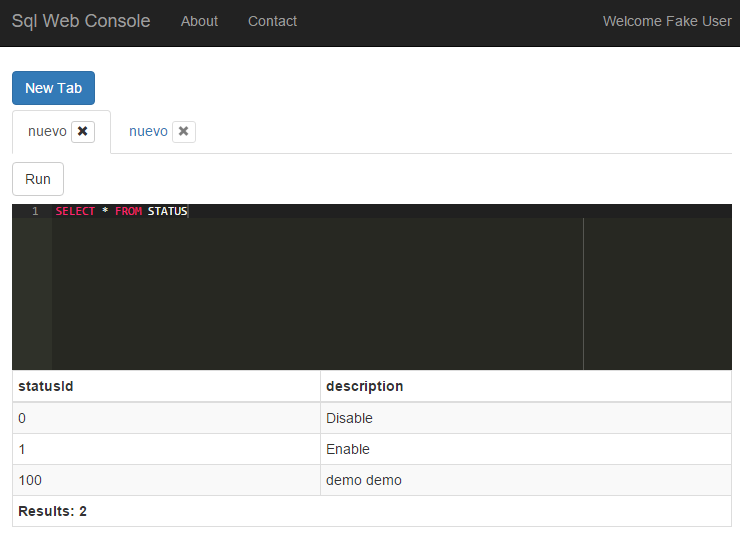
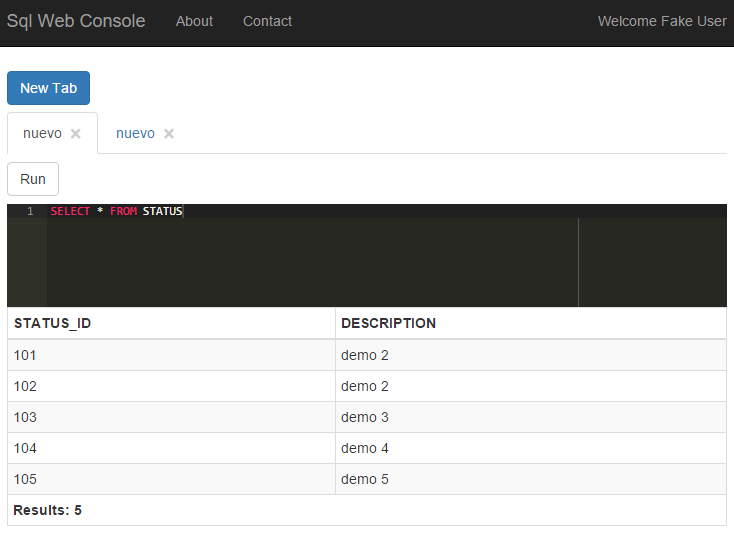
Non Query Commands support

diff --git a/src/SqlWebConsole/views/home.html b/src/SqlWebConsole/views/home.html
@@ -10,7 +10,7 @@
         <uib-tab ng-repeat="tab in vm.tabs" active="tab.active" disable="tab.disabled">
 
             <uib-tab-heading>
-                {{tab.title}} <button type="button" class="btn btn-default btn-xs" ng-click="vm.closeTab(tab)" ng-disabled="!tab.active"><i class="glyphicon glyphicon-remove"></i></button>
+                <span class="conn-tab-title">{{tab.title}}</span> <button type="button" class="close" aria-label="Close" ng-click="vm.closeTab(tab)" ng-disabled="!tab.active"><span aria-hidden="true">&times;</span></button>
             </uib-tab-heading>
 
             <div>
@@ -23,24 +23,31 @@
 
                 <div ui-ace="tab.aceOptions" style="height:500px;" ng-model="tab.sql"></div>
 
-                <div>
+                <div ng-if="vm.errorMessage == null">
                     <table class="table table-bordered table-condensed table-striped table-responsive">
                         <thead>
                             <tr>
-                                <th ng-repeat="col in vm.columns" ng-bind="col"></th>
+                                <th ng-repeat="col in vm.columns" ng-bind="col.name"></th>
                             </tr>
                         </thead>
                         <tfoot>
                             <tr>
-                                <th colspan="100%">Results: {{vm.columns.length}}</th>
+                                <th colspan="100%">
+                                    <span ng-if="vm.recordsAffected == null">Results: {{vm.rows.length}}</span>
+                                    <span ng-if="vm.recordsAffected != null">Records Affected {{vm.recordsAffected}}</span>
+                                </th>
                             </tr>
                         </tfoot>
                         <tbody>
                             <tr ng-repeat="row in vm.rows">
-                                <td ng-repeat="col in vm.columns" ng-bind="row[col]"></td>
+                                <td ng-repeat="col in vm.columns" ng-bind="row[col.fieldName]"></td>
                             </tr>
                         </tbody>
                     </table>
+                </div>
+
+                <div ng-if="vm.errorMessage != null" class="alert alert-danger" role="alert">
+                    <strong>Error:</strong> <span ng-bind="vm.errorMessage"></span>
                 </div>
             </div>
         </uib-tab>

diff --git a/src/SqlWebConsole/app/sqlconsole.js b/src/SqlWebConsole/app/sqlconsole.js
@@ -205,6 +205,8 @@
         vm.newTab = newTab;
         vm.closeTab = closeTab;
         vm.executeCommand = executeCommand;
+        vm.recordsAffected = null;
+        vm.errorMessage = null
 
         init();
 
@@ -229,25 +231,37 @@
 
             vm.rows.splice(0, vm.rows.length);
             vm.columns.splice(0, vm.columns.length);
+            vm.recordsAffected = null;
+            vm.errorMessage = null;
 
-            $http.post('api/sql', { commandText: selectedText, connection: tab.connection }).success(function (data) {
+            $http.post('api/sql', { commandText: selectedText, connection: tab.connection })
+                .success(function (data) {
 
-                if (!data || !data.length) {
-                    return;
-                }
-
-                for (var i = 0; i < data.length; i++) {
-
-                    var item = data[i];
-                    vm.rows.push(item);
-
-                    for (var prop in item) {
-                        if (item.hasOwnProperty(prop) && vm.columns.indexOf(prop) < 0) {
-                            vm.columns.push(prop);
-                        }
+                    if (!data) {
+                        return;
                     }
-                }
-            });
+
+                    for (var col in data.columns) {
+                        data.columns[col].fieldName = col;
+                        vm.columns.push(data.columns[col]);
+                    }
+
+                    for (var i = 0; i < data.items.length; i++) {
+
+                        var item = data.items[i];
+                        vm.rows.push(item);
+
+                    }
+
+                    if (data.recordsAffected >= 0) {
+                        vm.recordsAffected = data.recordsAffected;
+                    }
+
+
+                })
+                .error(function (data) {
+                    vm.errorMessage = data.message;
+                });
         }
 
         function closeTab(tab) {

diff --git a/src/SqlWebConsole/Content/sqlconsole.css b/src/SqlWebConsole/Content/sqlconsole.css
@@ -50,3 +50,6 @@
     margin: 8px 0 8px -5px;
 }
 
+.conn-tab-title {
+    margin-right: 8px;
+}

diff --git a/src/SqlWebConsole/ApiControllers/SqlController.cs b/src/SqlWebConsole/ApiControllers/SqlController.cs
@@ -17,7 +17,7 @@ namespace SqlWebConsole.ApiControllers
 
             try
             {
-                IEnumerable<object> result = null;
+                var result = new CommandResultModel();
                 var provider = System.Data.Common.DbProviderFactories.GetFactory(command.Connection.ProviderName);
                 var csb = provider.CreateConnectionStringBuilder();
                 csb.ConnectionString = command.Connection.ConnectionString;
@@ -38,7 +38,37 @@ namespace SqlWebConsole.ApiControllers
 
                     await connection.OpenAsync();
 
-                    result = (await connection.QueryAsync(command.CommandText)).Take(500).ToArray();
+                    var dbCommand = connection.CreateCommand();
+                    dbCommand.CommandText = command.CommandText;
+
+
+                    using (var reader = await dbCommand.ExecuteReaderAsync())
+                    {
+
+                        result.RecordsAffected = reader.RecordsAffected;
+
+                        for (int i = 0; i < reader.FieldCount; i++)
+                        {
+                            var fieldName = reader.GetName(i);
+                            var fieldType = reader.GetFieldType(i).FullName;
+                            var fieldDataType = reader.GetDataTypeName(i);
+                            result.Columns.Add(fieldName, new ColumnModel { Name = fieldName, Type = fieldType, DataType = fieldDataType });
+                        }
+
+                        while (await reader.ReadAsync())
+                        {
+                            var item = new Dictionary<string, object>();
+                            for (int i = 0; i < reader.FieldCount; i++)
+                            {
+                                var fieldName = reader.GetName(i);
+                                var fieldValue = reader.GetValue(i);
+                                item.Add(fieldName, fieldValue);
+                            }
+                            result.Items.Add(item);
+                        }
+                    }
+
+                    //result = (await connection.QueryAsync(command.CommandText)).Take(500).ToArray();
                     
                 }
 

diff --git a/src/SqlWebConsole/ApiModels/CommandResultModel.cs b/src/SqlWebConsole/ApiModels/CommandResultModel.cs
@@ -1,0 +1,22 @@
+using System;
+using System.Collections.Generic;
+using System.Linq;
+using System.Text;
+using System.Threading.Tasks;
+
+namespace SqlWebConsole.ApiModels
+{
+    public class CommandResultModel
+    {
+        public int RecordsAffected { get; set; }
+        public IDictionary<string, ColumnModel> Columns { get; set; }
+        public IList<IDictionary<string, object>> Items { get; set; }
+
+        public CommandResultModel()
+        {
+            Columns = new Dictionary<string, ColumnModel>();
+            Items = new List<IDictionary<string, object>>();
+        }
+
+    }
+}

diff --git a/src/SqlWebConsole/ApiModels/ColumnModel.cs b/src/SqlWebConsole/ApiModels/ColumnModel.cs
@@ -1,0 +1,9 @@
+namespace SqlWebConsole.ApiModels
+{
+    public class ColumnModel
+    {
+        public string Name { get; set; }
+        public string Type { get; set; }
+        public string DataType { get; set; }
+    }
+}
